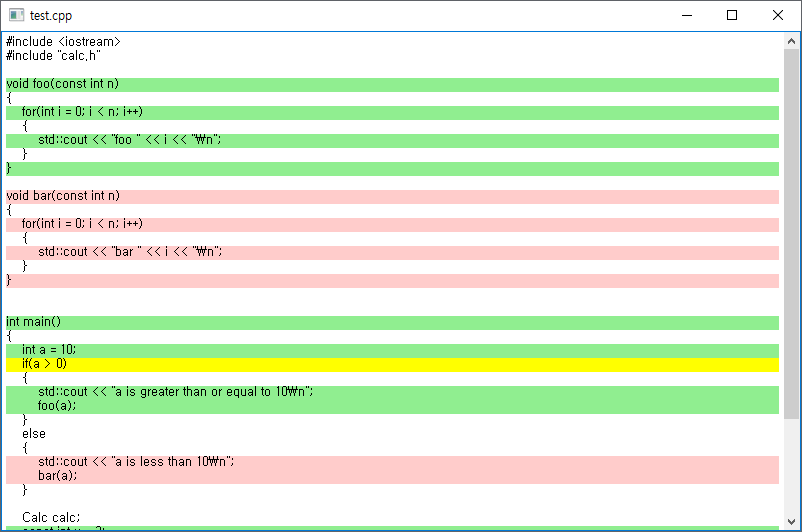
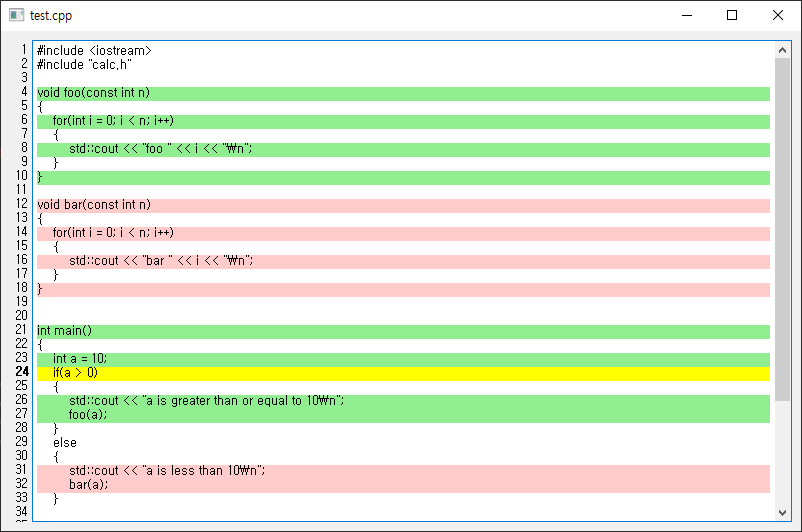
line number visualization. folder to open can be inputted via argument.

diff --git a/src/code_window.py b/src/code_window.py
@@ -1,9 +1,72 @@
-from PyQt5.QtWidgets import QMainWindow, QTextEdit
-from PyQt5.QtGui import QColor, QTextBlockFormat, QTextCursor
+from PyQt5.QtWidgets import QMainWindow, QTextEdit, QWidget, QHBoxLayout
+from PyQt5.QtGui import QColor, QTextBlockFormat, QTextCursor, QPainter
 from src.gcov_parser import *
 
 
+class NumberBar(QWidget):
+    """ Reference: NumberBar from https://nachtimwald.com/2009/08/15/qtextedit-with-line-numbers/
+    """
+    def __init__(self):
+        super().__init__()
+
+        self.edit = None        
+        self.highest_line = 0      # the greatest line number that is currently visible.
+    
+    def setEdit(self, edit):
+        self.edit = edit
+    
+    def update(self):
+        """ This method updates number bar
+        """
+
+        # +10 for margin
+        width = self.fontMetrics().width(str(self.highest_line)) + 10
+        if self.width() != width:
+            self.setFixedWidth(width)
+    
+        super().update()
+
+    def paintEvent(self, event):
+        contents_y = self.edit.verticalScrollBar().value()
+        page_bottom = contents_y + self.edit.viewport().height()    # the height of viewport widget.
+        font_metrics = self.fontMetrics()
+        current_block = self.edit.document().findBlock(self.edit.textCursor().position())   # get the text block that contains the current cursor.
+
+        painter = QPainter(self)
+
+        line_count = 0
+        block = self.edit.document().begin()
+        while block.isValid():
+            line_count += 1
+            position = self.edit.document().documentLayout().blockBoundingRect(block).topLeft()
+
+            if position.y() > page_bottom:
+                break
+
+            bold = False
+            if block == current_block:
+                bold = True
+                font = painter.font()
+                font.setBold(True)
+                painter.setFont(font)
+            
+            painter.drawText(self.width() - font_metrics.width(str(line_count)) - 5, round(position.y()) - contents_y + font_metrics.ascent(), str(line_count))
+
+            if bold:
+                font = painter.font()
+                font.setBold(False)
+                painter.setFont(font)
+
+            block = block.next()
+
+        self.highest_line = line_count
+        painter.end()
+
+        super().paintEvent(event)
+
 class CodeWindow(QMainWindow):
+    """ Code view window.
+    """
     def __init__(self, cov: GCOVParser) -> None:
         super().__init__()
 
@@ -12,12 +75,27 @@ class CodeWindow(QMainWindow):
 
         
     def initUI(self):
-        self.setWindowTitle(self.cov.file_path)
+        self.setWindowTitle(self.cov.file_path)        
         self.resize(800, 500)
 
         self.text_edit = QTextEdit(self)
         self.text_edit.setReadOnly(True)
         self.text_edit.setText('')
+
+        self.number_bar = NumberBar()
+        self.number_bar.setEdit(self.text_edit)
+
+        self.hbox = QHBoxLayout()
+        self.widget = QWidget()
+        self.widget.setLayout(self.hbox)
+
+        self.hbox.setSpacing(0)
+        self.hbox.addWidget(self.number_bar)
+        self.hbox.addWidget(self.text_edit)        
+        self.setCentralWidget(self.widget)
+
+        self.text_edit.installEventFilter(self)
+        self.text_edit.viewport().installEventFilter(self)
 
         for line in self.cov.lines:
             color = QColor()
@@ -38,5 +116,11 @@ class CodeWindow(QMainWindow):
             cursor = self.text_edit.textCursor()
             cursor.setBlockFormat(fmt)
 
-
-        self.setCentralWidget(self.text_edit)
+        # Move to the first line.
+        self.text_edit.moveCursor(QTextCursor.Start)
+    
+    def eventFilter(self, object, event):
+        if object in (self.text_edit, self.text_edit.viewport()):
+            self.number_bar.update()
+            return False
+        return super().eventFilter(object, event)

diff --git a/src/main_window.py b/src/main_window.py
@@ -13,11 +13,20 @@ class MainWindow(QMainWindow):
     """ PyCov Main window class
     """
     def __init__(self, argv) -> None:
+        """ Constructor.
+            argv: command line argument.
+                  argv[0]: pycov.py file path.
+                  argv[1]: directory path to open (optional).
+        """
         super().__init__()
 
         self.initUI()
 
-        self.path = './'
+        if len(argv) == 2:
+            self.path = argv[1]
+        else:
+            self.path = './'
+
         self.open_folder(self.path)
         self.code_window = None
 
@@ -152,17 +161,17 @@ class MainWindow(QMainWindow):
         if self.num_lines > 0:
             self.line_coverage = self.num_lines_exec / self.num_lines
         else:
-            self.line_coverage = 1.0
+            self.line_coverage = 0.0
 
         if  self.num_functions > 0:
             self.function_coverage = self.num_functions_exec / self.num_functions
         else:
-            self.function_coverage = 1.0
+            self.function_coverage = 0.0
 
         if self.num_branches > 0:
             self.branch_coverage = self.num_branches_exec / self.num_branches
         else:
-            self.branch_coverage = 1.0
+            self.branch_coverage = 0.0
 
         self.file_tree.clear()
 

diff --git a/src/gcov_parser.py b/src/gcov_parser.py
@@ -90,14 +90,14 @@ class GCOVParser:
         if self.num_lines > 0:
             self.line_coverage = self.num_lines_exec / self.num_lines
         else:
-            self.line_coverage = 1.0
+            self.line_coverage = 0.0
 
         if  self.num_functions > 0:
             self.function_coverage = self.num_functions_exec / self.num_functions
         else:
-            self.function_coverage = 1.0
+            self.function_coverage = 0.0
 
         if self.num_branches > 0:
             self.branch_coverage = self.num_branches_exec / self.num_branches
         else:
-            self.branch_coverage = 1.0
+            self.branch_coverage = 0.0

diff --git a/pycov.py b/pycov.py
@@ -11,3 +11,6 @@ if __name__ == '__main__':
     window.show()
 
     app.exec_()
+
+
+
